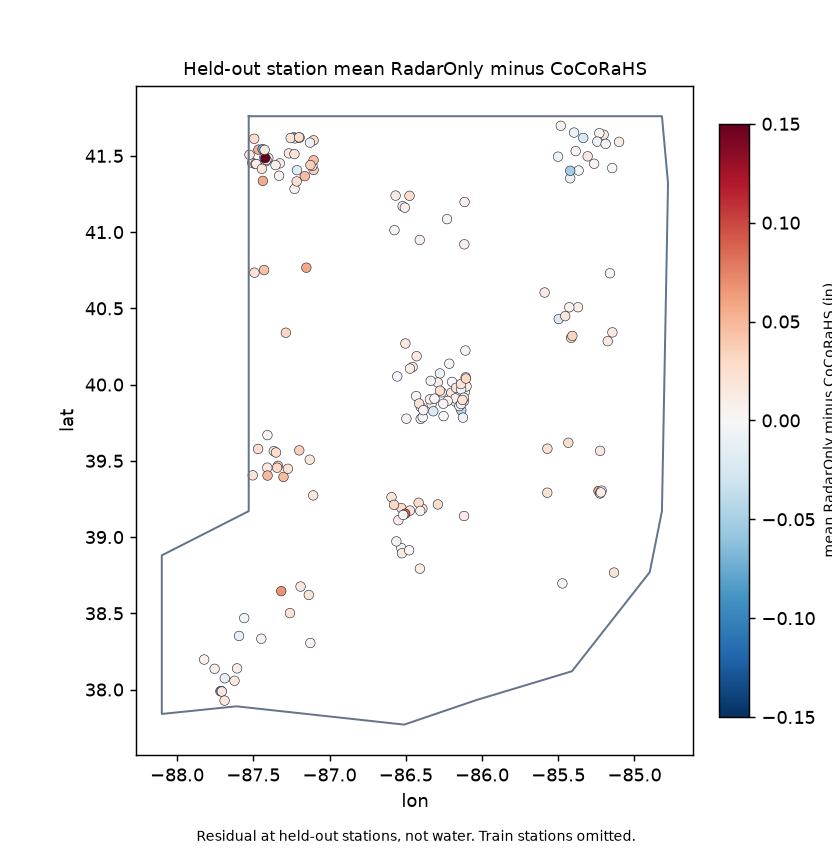
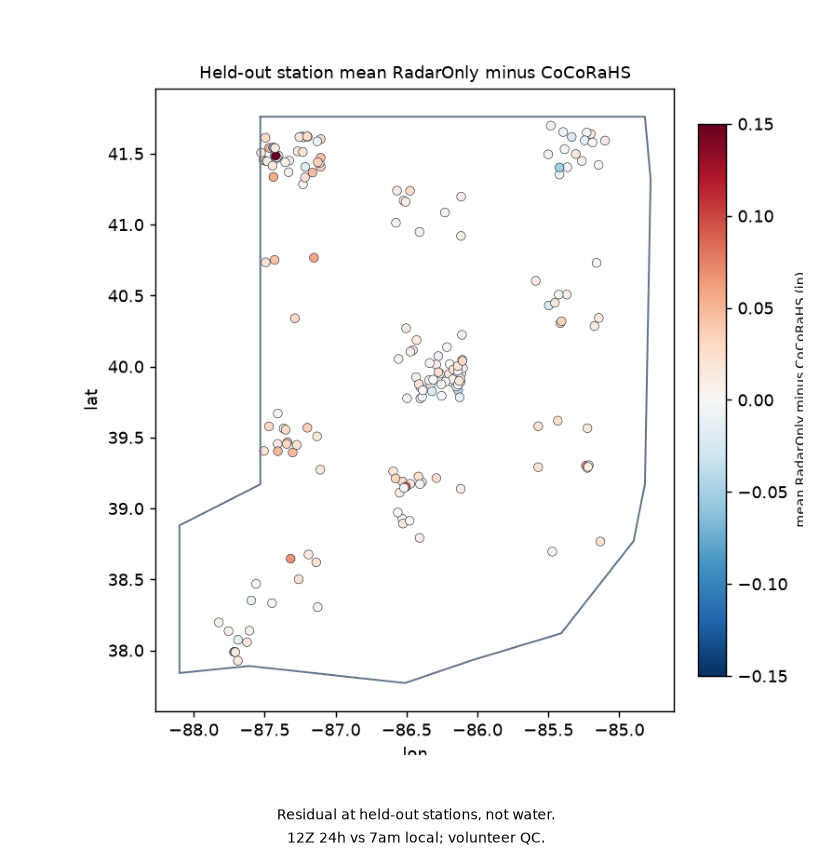
Caption lock: RadarOnly is the field; a tree does not beat it on amount.
Science stays ac36f0f. 12Z 24h vs 7am local and volunteer QC on the figures.
Ridge 0.009 in RMSE is noise. Do not re-fit.

diff --git a/src/inrain/figure.py b/src/inrain/figure.py
@@ -101,21 +101,63 @@ def write_bias_map(dest: Path, *, fit: dict[str, Any], title: str, subtitle: str
     return dest
 
 
+def scatter_subtitle(fit: dict[str, Any], *, live: bool) -> str:
+    ident = float(fit["skill"]["identity"]["rmse_in"])
+    hgb = float(fit["skill"]["hgb"]["rmse_in"])
+    core = f"RadarOnly {ident:.3f} in RMSE; HGB {hgb:.3f}"
+    if live:
+        return f"{core}. 12Z 24h vs 7am local; volunteer QC."
+    return f"{core}. Fixture; does not rescue live skill."
+
+
+def restamp_footer(
+    path: Path,
+    *,
+    subtitle: str,
+    figsize: tuple[float, float],
+    crop_top: float = 0.88,
+) -> Path:
+    """Replace the footer on an existing PNG. Does not re-fit."""
+    require_clean(subtitle, source="footer")
+    import matplotlib
+
+    matplotlib.use("Agg")
+    import matplotlib.pyplot as plt
+
+    img = np.asarray(plt.imread(path), dtype=float)
+    if img.max() > 1.0:
+        img = img / 255.0
+    r1 = max(1, int(img.shape[0] * crop_top))
+    crop = img[:r1]
+    fig, ax = plt.subplots(figsize=figsize)
+    ax.imshow(crop)
+    ax.set_xticks([])
+    ax.set_yticks([])
+    ax.set_title("")
+    for spine in ax.spines.values():
+        spine.set_visible(False)
+    lines = [ln.strip() for ln in subtitle.split(". ") if ln.strip()]
+    if len(lines) >= 2:
+        fig.text(0.5, 0.045, lines[0].rstrip(".") + ".", ha="center", fontsize=8)
+        fig.text(0.5, 0.018, ". ".join(lines[1:]), ha="center", fontsize=7.5)
+        fig.subplots_adjust(bottom=0.12, top=0.99, left=0.01, right=0.99)
+    else:
+        fig.text(0.5, 0.03, subtitle, ha="center", fontsize=8)
+        fig.subplots_adjust(bottom=0.10, top=0.99, left=0.01, right=0.99)
+    fig.savefig(path, dpi=130)
+    plt.close(fig)
+    return path
+
+
 def write_two(log_dir: Path, *, fit: dict[str, Any], live: bool = False) -> list[Path]:
     sub = LIVE_BIAS_SUBTITLE if live else FIXTURE_BIAS_SUBTITLE
-    ranking = (
-        f"Ridge {fit['skill']['ridge']['rmse_in']:.3f} in RMSE, "
-        f"RadarOnly {fit['skill']['identity']['rmse_in']:.3f}, "
-        f"HGB {fit['skill']['hgb']['rmse_in']:.3f}, "
-        f"held-out stations"
-    )
     require_clean(QUESTION, source="question")
     paths = [
         write_scatter(
             log_dir / "scatter.png",
             fit=fit,
             title="Held-out CoCoRaHS vs RadarOnly and HGB",
-            subtitle=ranking,
+            subtitle=scatter_subtitle(fit, live=live),
         ),
         write_bias_map(
             log_dir / "bias_map.png",

diff --git a/scripts/restamp_captions.py b/scripts/restamp_captions.py
@@ -1,0 +1,40 @@
+#!/usr/bin/env python3
+# Copyright (c) 2026 Martial Systems LLC
+"""Restamp live PNG footers from locked skill JSON. Does not re-fit."""
+
+from __future__ import annotations
+
+import json
+import sys
+from pathlib import Path
+
+REPO = Path(__file__).resolve().parents[1]
+sys.path[:0] = [str(REPO), str(REPO / "src")]
+
+from inrain.config import LIVE_BIAS_SUBTITLE  # noqa: E402
+from inrain.figure import restamp_footer, scatter_subtitle  # noqa: E402
+
+
+def main() -> int:
+    log_dir = Path(sys.argv[1]) if len(sys.argv) > 1 else REPO / "logs" / "in_live"
+    report = json.loads((log_dir / "stage_c_report.json").read_text(encoding="utf-8"))
+    scatter_sub = scatter_subtitle(report, live=True)
+    restamp_footer(
+        log_dir / "scatter.png",
+        subtitle=scatter_sub,
+        figsize=(8.2, 4.2),
+        crop_top=0.88,
+    )
+    restamp_footer(
+        log_dir / "bias_map.png",
+        subtitle=LIVE_BIAS_SUBTITLE,
+        figsize=(6.4, 6.6),
+        crop_top=0.935,
+    )
+    print(scatter_sub)
+    print(LIVE_BIAS_SUBTITLE)
+    return 0
+
+
+if __name__ == "__main__":
+    raise SystemExit(main())

diff --git a/tests/test_figure_caption.py b/tests/test_figure_caption.py
@@ -1,0 +1,26 @@
+# Copyright (c) 2026 Martial Systems LLC
+
+from inrain.config import LIVE_BIAS_SUBTITLE, LOCKED_LIVE_COMMIT
+from inrain.figure import scatter_subtitle
+
+
+def test_live_captions_name_radar_and_clock() -> None:
+    fit = {
+        "skill": {
+            "identity": {"rmse_in": 0.13306947137742373},
+            "hgb": {"rmse_in": 0.14050355160274344},
+        }
+    }
+    sub = scatter_subtitle(fit, live=True)
+    assert sub.startswith("RadarOnly 0.133")
+    assert "HGB 0.141" in sub
+    assert "Ridge" not in sub
+    assert "12Z 24h vs 7am local" in sub
+    assert "volunteer QC" in sub
+    assert "12Z 24h vs 7am local" in LIVE_BIAS_SUBTITLE
+    assert "volunteer QC" in LIVE_BIAS_SUBTITLE
+    assert LOCKED_LIVE_COMMIT.startswith("ac36f0f")
+    first, sep, rest = sub.partition(". ")
+    assert sep
+    assert "0.133" in first
+    assert "12Z" in rest

diff --git a/tests/test_readme.py b/tests/test_readme.py
@@ -25,6 +25,11 @@ def test_readme_opens_with_the_question() -> None:
     assert "What it is not" not in text
     assert "scatter.png" in text
     assert "bias_map.png" in text
+    assert "a tree does not beat it on amount" in text
+    assert "12Z 24h vs 7am local" in text
+    assert "volunteer QC" in text
+    assert "ac36f0f" in text
+    assert "Do not chase 0.009" in text
     live = json.loads((REPO / "logs" / "in_live" / "stage_c_report.json").read_text(encoding="utf-8"))
     ident = live["skill"]["identity"]["rmse_in"]
     hgb = live["skill"]["hgb"]["rmse_in"]

diff --git a/src/inrain/config.py b/src/inrain/config.py
@@ -74,8 +74,9 @@ FEATURE_NAMES = (
     "cos_doy",
     "range_km",
 )
+LOCKED_LIVE_COMMIT = "ac36f0f7892a90ab38626406e5797387427a4b32"
 LIVE_BIAS_SUBTITLE = (
-    "Residual at held-out stations, not water. Train stations omitted."
+    "Residual at held-out stations, not water. 12Z 24h vs 7am local; volunteer QC."
 )
 FIXTURE_BIAS_SUBTITLE = (
     "Fixture planted east bias. Does not rescue live skill."

diff --git a/README.md b/README.md
@@ -2,23 +2,23 @@
 
 Does RadarOnly MRMS match CoCoRaHS daily rain at held-out Indiana stations?
 
-On this sample, RadarOnly is already close. Held-out RMSE is 0.133 in. Ridge is 0.124 and takes mean bias from +0.013 to +0.001. HGB is 0.141 RMSE. IDW of other CoCoRaHS is 0.209. MAE is 0.048 in for RadarOnly and for HGB; Ridge is 0.049. CSI at 0.10 in is 0.82 (radar), 0.83 (Ridge), 0.84 (HGB). Fixture HGB beating identity does not rescue live skill.
+MRMS RadarOnly is close; a tree does not beat it on amount. Held-out RMSE is 0.133 in (CSI 0.82). HGB is 0.141 at stations it never trained on. IDW of other CoCoRaHS is 0.209. Ridge is 0.124 RMSE then 0.049 MAE against radar's 0.048: that 0.009 in is noise, not a method. Fixture HGB beating identity does not rescue live skill.
 
-Live science is `logs/in_live/stage_c_report.json`. 685 eligible Indiana stations, 409 train-block, 177 held-out. Train n=30717 through 2024-09-30. Holdout n=19189 from 2024-10-01. RadarOnly 24H at 12Z. This tree does not read `p_sfha`.
+Science lock `ac36f0f`. 685 eligible Indiana stations, 409 train-block, 177 held-out. Train n=30717 through 2024-09-30. Holdout n=19189 from 2024-10-01. RadarOnly 24H at 12Z. GaugeCorr stays out. This tree does not read `p_sfha`. Rain-stage stays frozen.
 
-Sibling rain-to-stage (Stage IV, Nora): https://github.com/martialsystems/white_river_rain_stage
+Sibling rain-to-stage (Stage IV, Nora; different question): https://github.com/martialsystems/white_river_rain_stage
 
 ![Figure 1. Holdout scatter](logs/in_live/scatter.png)
 
-Figure 1. Live holdout: CoCoRaHS versus raw RadarOnly and versus HGB. Ranking is RMSE on 177 held-out stations.
+Figure 1. Live holdout at 177 stations: CoCoRaHS vs RadarOnly and vs HGB. RadarOnly RMSE 0.133 in; HGB 0.141. 12Z 24h vs 7am local; volunteer QC.
 
 ![Figure 2. Bias map](logs/in_live/bias_map.png)
 
-Figure 2. Mean RadarOnly minus CoCoRaHS at held-out stations. Residual, not water. Train stations omitted.
+Figure 2. Mean RadarOnly minus CoCoRaHS at held-out stations. Residual, not water. 12Z 24h vs 7am local; volunteer QC.
 
 ## Live skill (held-out stations)
 
-Locked from `logs/in_live/stage_c_report.json`. Inches. Summers 2024 train, 2025 and 2026 holdout. Identity is raw RadarOnly. IDW uses same-day train-block CoCoRaHS. HGB is the ML.
+Locked from `logs/in_live/stage_c_report.json` at `ac36f0f`. Inches. Summers 2024 train, 2025 and 2026 holdout. Identity is raw RadarOnly. IDW uses same-day train-block CoCoRaHS. HGB is the ML.
 
 | Model | RMSE (in) | MAE (in) | Bias (in) | CSI 0.10 in |
 |-------|----------:|---------:|----------:|------------:|
@@ -27,11 +27,11 @@ Locked from `logs/in_live/stage_c_report.json`. Inches. Summers 2024 train, 2025
 | Ridge | 0.124 | 0.049 | +0.001 | 0.83 |
 | HGB | 0.141 | 0.048 | -0.004 | 0.84 |
 
-Ridge trims the wet bias. HGB does not beat RadarOnly RMSE at stations it never trained on. IDW of neighboring gauges is worse than radar.
+Do not chase 0.009 in of RMSE.
 
 ## Why RadarOnly
 
-CoCoRaHS daily reports are the labels. MRMS GaugeCorr and MultiSensor Pass2 ingest gauges. Scoring those products at CoCoRaHS sites is leakage. RadarOnly is independent of the labels. The ML may use RadarOnly, location, season, and range to nearest WSR-88D. It may not use the gauge as a feature.
+CoCoRaHS daily reports are the labels. MRMS GaugeCorr and MultiSensor Pass2 ingest gauges. Scoring those products at CoCoRaHS sites is leakage. RadarOnly is independent of the labels.
 
 ## Split
 
@@ -39,7 +39,7 @@ CoCoRaHS daily reports are the labels. MRMS GaugeCorr and MultiSensor Pass2 inge
 
 ## Day match
 
-CoCoRaHS date D versus RadarOnly 24H ending 12Z on D (7am EST). EDT is a 1-hour mismatch. Central-time Indiana counties are a further mismatch. Volunteer QC is the remaining residual risk.
+CoCoRaHS date D versus RadarOnly 24H ending 12Z on D (7am EST). EDT is a 1-hour mismatch. Central-time Indiana counties are a further mismatch. Volunteer QC stays in the caption.
 
 ## Stage 0
 

diff --git a/METHODOLOGY.md b/METHODOLOGY.md
@@ -37,12 +37,12 @@ Features: RadarOnly cell, 3x3 mean, lat, lon, day-of-year sine and cosine, range
 
 Metrics on held-out stations, inches: RMSE, MAE, mean bias (predictor minus gauge), wet-day CSI at 0.10 in. Yesterday's gauge is the wrong bar (this is not a stage nowcast).
 
-Live holdout: 177 stations, 19189 rows. RadarOnly RMSE 0.133, MAE 0.048, bias +0.013, CSI 0.82. Ridge 0.124 / 0.049 / +0.001 / 0.83. HGB 0.141 / 0.048 / -0.004 / 0.84. IDW 0.209 / 0.076 / +0.001 / 0.72. Ridge trims bias. HGB does not beat RadarOnly RMSE. Fixture HGB 0.039 vs 0.089 does not replace this table.
+Live holdout at `ac36f0f`: 177 stations, 19189 rows. RadarOnly RMSE 0.133, MAE 0.048, bias +0.013, CSI 0.82. HGB 0.141 / 0.048 / -0.004 / 0.84. IDW 0.209 / 0.076 / +0.001 / 0.72. Ridge 0.124 / 0.049 / +0.001 / 0.83. RadarOnly is the field. A tree does not beat it on amount. Ridge's 0.009 in RMSE with MAE 0.001 in worse is noise, not a method. Fixture HGB 0.039 vs 0.089 does not replace this table.
 
 ## Figures
 
-1. Holdout scatter: CoCoRaHS vs RadarOnly and vs HGB. Caption is the RMSE ranking.
-2. Bias map: mean (RadarOnly minus CoCoRaHS) at held-out stations only. Residual, not water.
+1. Holdout scatter: CoCoRaHS vs RadarOnly and vs HGB. Caption: RadarOnly vs HGB RMSE, plus 12Z 24h vs 7am local and volunteer QC.
+2. Bias map: mean (RadarOnly minus CoCoRaHS) at held-out stations only. Residual, not water. Same 12Z / QC caption.
 
 ## Claims
 
@@ -52,4 +52,4 @@ Banned: 100-year exceedance; p_sfha in the feature matrix or as a forecast; bias
 
 ## Next tree, if any
 
-Hourly 7am local-tz sums, Central vs Eastern county clocks, or GaugeCorr as an operational (leaky) product. Not from this snapshot.
+When radar misses: hours, lake-effect, 7am split. New tree, or stop. Not from `ac36f0f`. Do not chase 0.009 in RMSE. GaugeCorr stays out.

diff --git a/CHECKLIST.md b/CHECKLIST.md
@@ -1,10 +1,11 @@
 # Operator checklist
 
 1. Fixture Stage 0 green: CI oracle only. Does not rescue live skill.
-2. Live table is `logs/in_live/stage_c_report.json`: RadarOnly 0.133 RMSE, Ridge 0.124, HGB 0.141, IDW 0.209. Do not re-fit to chase that table.
+2. Science lock `ac36f0f`. Live table: RadarOnly 0.133 RMSE, HGB 0.141, IDW 0.209. Ridge 0.124 then MAE +0.001 in is noise. Do not chase 0.009 in RMSE. Do not re-fit.
 3. Live `run_live.py` exit 2 on empty CoCoRaHS or 404 RadarOnly.
-4. Skill table is held-out stations only. Identity (RadarOnly) and IDW are the bars. HGB is the ML.
-5. Figure 2 caption: residual at held-out stations, not water. Train stations omitted.
+4. Skill table is held-out stations only. RadarOnly is the field. HGB is the ML that lost on amount.
+5. Figure captions: 12Z 24h vs 7am local; volunteer QC. Residual, not water.
 6. At most two figures. Product figures are `logs/in_live/`.
-7. Do not call GaugeCorr independent. Do not start hourly local-tz matching from this snapshot.
-8. Push public `martialsystems/indiana_cocorahs_mrms`.
+7. GaugeCorr stays out. Rain-stage stays frozen.
+8. Next is hours, lake-effect, or 7am split as a new tree, or stop.
+9. Push public `martialsystems/indiana_cocorahs_mrms`. Precip gist, not gist 1, not a fourth White River nowcast.

diff --git a/AGENTS.md b/AGENTS.md
@@ -2,7 +2,7 @@
 
 Public GitHub. MIT. Question: Does RadarOnly MRMS match CoCoRaHS daily rain at held-out Indiana stations?
 
-Live answer: RadarOnly RMSE 0.133 in on 177 held-out stations. Ridge 0.124 (MAE 0.049 vs 0.048). HGB 0.141. IDW 0.209. Fixture HGB does not rescue live. Do not re-fit to chase that table.
+Live answer at `ac36f0f`: MRMS RadarOnly is close; a tree does not beat it on amount. RMSE 0.133 in, CSI 0.82. HGB 0.141. IDW 0.209. Ridge 0.124 then MAE 0.049 vs 0.048 is noise, not a method. Do not chase 0.009 in RMSE. Do not re-fit. Fixture HGB does not rescue live.
 
 This is a new tree. Do not restamp https://github.com/martialsystems/white_river_rain_stage. That repo forbids hourly MRMS as v1 and forbids starting the next rain tree from its snapshot.
 
@@ -12,7 +12,7 @@ This tree does not read `p_sfha`. Do not edit indiana_flood_completion, Nora HAN
 
 `qpeforge/` is the GraphForge pin: no `p_sfha`, spatial holdout, RadarOnly fetch-or-stop, claim bans.
 
-Do not start hourly 7am local-tz sums, Central-county clocks, or GaugeCorr as v1.
+Next, if any: when radar misses (hours, lake-effect, 7am split), as a new tree, or stop. Not from `ac36f0f`. Not GaugeCorr.
 
 ## Verify
 
